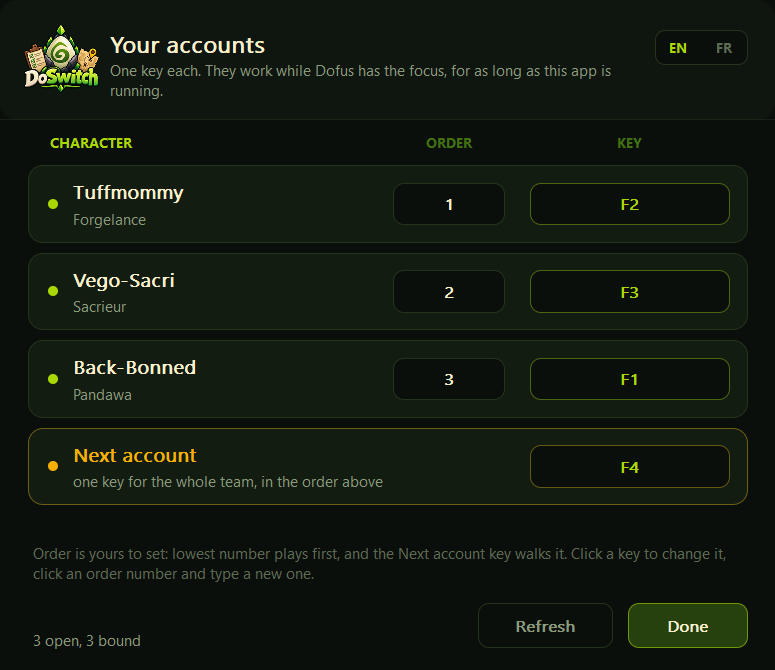
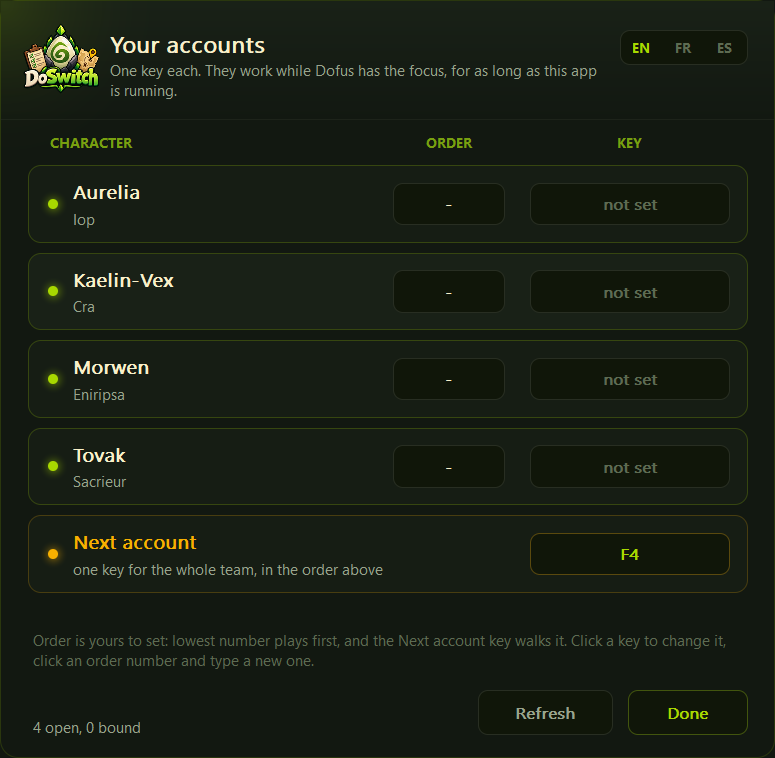
Keep real character names out of a public repository
The README's settings example, a doc comment and the two panel
screenshots all carried the author's own Dofus characters. They are a
person's account names in a public repository and there is no reason for
them to be there. Everything shown is invented now, and the placeholder
list the test hatch fills the panel with is invented too, so a screenshot
taken from it can never carry real ones back in by accident.

diff --git a/src/clients.rs b/src/clients.rs
@@ -56,10 +56,21 @@ pub fn list() -> Vec<Client> {
                 "Iop", "Cra", "Eniripsa", "Sacrieur", "Pandawa", "Feca",
                 "Sram", "Xelor", "Ecaflip", "Enutrof", "Osamodas", "Sadida",
             ];
+            // Invented names, so a screenshot taken from this never
+            // carries somebody's real characters into a public README.
+            let names = [
+                "Aurelia", "Kaelin-Vex", "Morwen", "Tovak", "Elandre",
+                "Sylnae", "Brannoc", "Ysolde", "Faelan", "Ombrelle",
+                "Cendrik", "Nivelle",
+            ];
             return (0..count)
                 .map(|i| Client {
                     hwnd: std::ptr::null_mut(),
-                    character: format!("Account-{:02}", i + 1),
+                    character: if i < names.len() {
+                        names[i].to_string()
+                    } else {
+                        format!("{}-{}", names[i % names.len()], i / names.len() + 1)
+                    },
                     breed: breeds[i % breeds.len()].to_string(),
                 })
                 .collect();
@@ -102,7 +113,7 @@ fn window_title(hwnd: HWND) -> String {
     String::from_utf16_lossy(&buffer[..taken.max(0) as usize])
 }
 
-/// ("Back-Bonned", "Pandawa") out of "Back-Bonned - Pandawa - 3.6 - Release".
+/// ("Morwen", "Pandawa") out of "Morwen - Pandawa - 3.6 - Release".
 ///
 /// Split on the separator WITH its spaces. A character name may contain a
 /// hyphen, and one that does was read as half a name for as long as the

diff --git a/README.md b/README.md
@@ -101,9 +101,9 @@ name:
   "language": "en",
   "next": "F4",
   "accounts": {
-    "Tuffmommy":   { "key": "F2", "order": 1 },
-    "Vego-Sacri":  { "key": "F3", "order": 2 },
-    "Back-Bonned": { "key": "F1", "order": 3 }
+    "Aurelia":   { "key": "F2", "order": 1 },
+    "Kaelin-Vex":  { "key": "F3", "order": 2 },
+    "Morwen": { "key": "F1", "order": 3 }
   }
 }
 ```
@@ -248,9 +248,9 @@ personnage:
   "language": "fr",
   "next": "F4",
   "accounts": {
-    "Tuffmommy":   { "key": "F2", "order": 1 },
-    "Vego-Sacri":  { "key": "F3", "order": 2 },
-    "Back-Bonned": { "key": "F1", "order": 3 }
+    "Aurelia":   { "key": "F2", "order": 1 },
+    "Kaelin-Vex":  { "key": "F3", "order": 2 },
+    "Morwen": { "key": "F1", "order": 3 }
   }
 }
 ```
